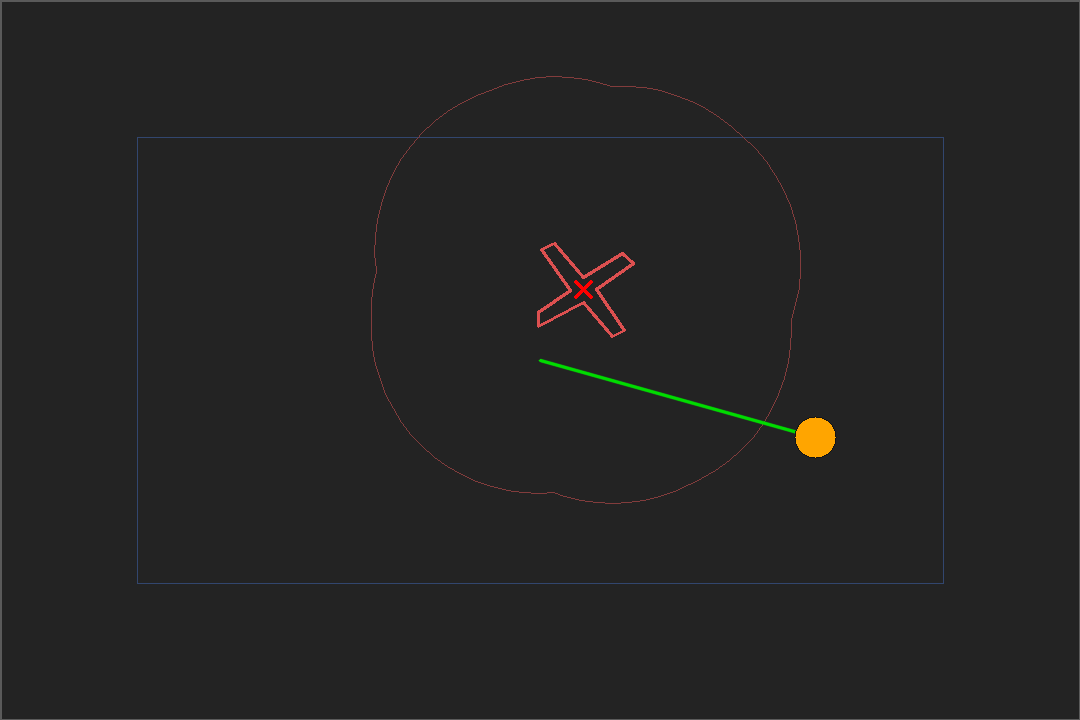
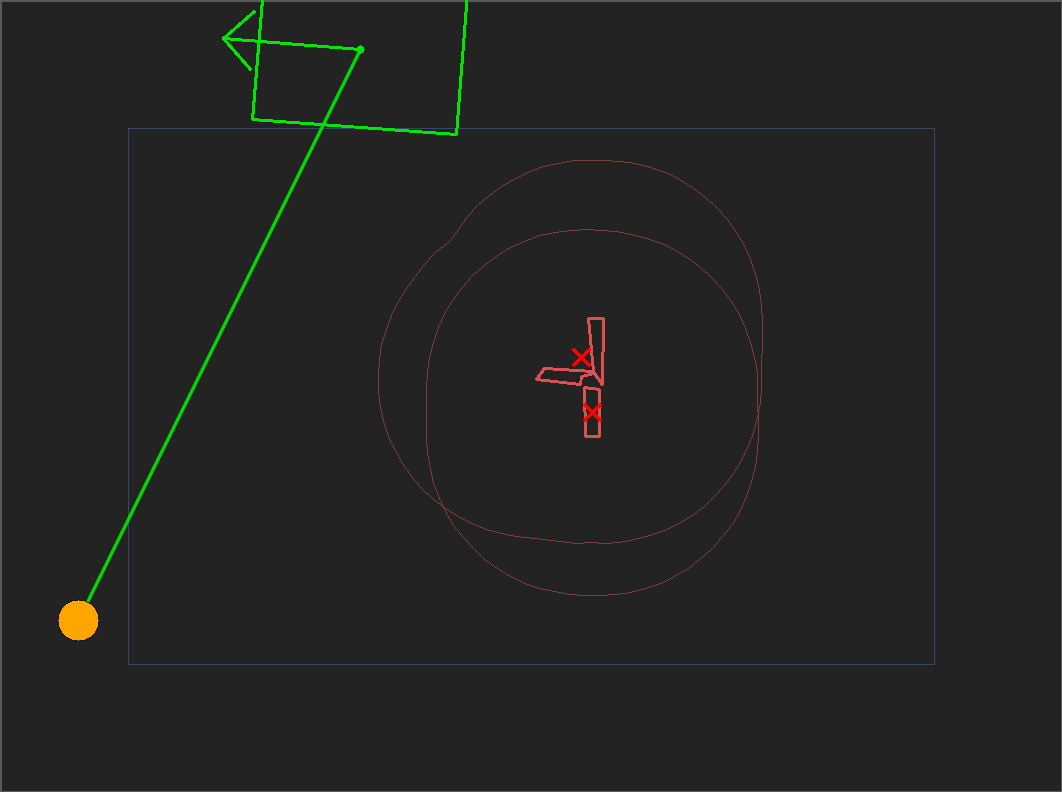
settings and changes from 22/06

diff --git a/src/server/phases/ball_collection.py b/src/server/phases/ball_collection.py
@@ -52,12 +52,12 @@ def retreat_to_safe(ctx, obstacles):
     obstacle_points = _normalize_obstacles(obstacles)
 
     if is_position_safe((ctx.robot.x, ctx.robot.y),
-                        obstacle_points, field_w, field_h, ROBOT_RADIUS_CM):
+                        obstacle_points, field_w, field_h, ROBOT_RADIUS_CM + 10):
         print("[Retreat] Robotten staar allerede sikkert.")
         return
 
     safe = find_safe_point((ctx.robot.x, ctx.robot.y),
-                           obstacle_points, field_w, field_h, ROBOT_RADIUS_CM)
+                           obstacle_points, field_w, field_h, ROBOT_RADIUS_CM + 10)
     if safe is None:
         print("[Retreat] ADVARSEL: Intet sikkert punkt fundet -- bakker {:.0f} cm.".format(
             ROBOT_BACK_CM))
@@ -67,7 +67,7 @@ def retreat_to_safe(ctx, obstacles):
     path, _ = find_path_adaptive(
         (ctx.robot.x, ctx.robot.y), safe,
         obstacle_points, field_w, field_h,
-        safe_radius=OBSTACLE_SAFE_RADIUS_CM, robot_radius=ROBOT_RADIUS_CM)
+        safe_radius=OBSTACLE_SAFE_RADIUS_CM, robot_radius=ROBOT_RADIUS_CM + 10)
     if path is None:
         print("[Retreat] ADVARSEL: Ingen sti til sikkert punkt -- bakker {:.0f} cm.".format(
             ROBOT_BACK_CM))
@@ -143,7 +143,7 @@ def collect_ball(ctx, ball, obstacles=None):
     
     # I stedet for bare at vente 3 sekunder, poller vi for stall.
     print("[{}] [Opsamling] Venter og tjekker om motoren staller...".format(ctx.iteration))
-    timeout_time = time.time() + 3.0
+    timeout_time = time.time() + 5.0
     stall_start_time = None
     
     while time.time() < timeout_time:
@@ -153,17 +153,18 @@ def collect_ball(ctx, ball, obstacles=None):
                 stall_start_time = time.time()
                 print("[{}] [Opsamling] EV3 melder 'stalled'! Starter timer...".format(ctx.iteration))
             elif time.time() - stall_start_time >= 0.5: # Hvis stalled i 0.5 sekunder
-                print("[{}] [Opsamling] Bolden sidder fast! Kører yderligere 5 cm fremad...".format(ctx.iteration))
-                send_and_verify(ctx.client, "FORWARD", 15, 2.5)
+                print("[{}] [Opsamling] Bolden sidder fast! Kører yderligere 3 cm tilbage og så frem...".format(ctx.iteration))
+                send_and_verify(ctx.client, "FORWARD", 15, -3)
                 # Vent lidt ekstra efter vi er kørt frem, og stop så
-                time.sleep(.5)
-                send_and_verify(ctx.client, "FORWARD", 15, -2.5)
-                break
+                send_and_verify(ctx.client, "FORWARD", 15, 3)
+                continue
         else:
             stall_start_time = None
         time.sleep(0.1)
 
     send_and_verify(ctx.client, "COLLECT_STOP")
+
+    send_and_verify(ctx.client, "FORWARD", SPEED_UNDER_COLLECTION, -COLLECTOR_MOVEMENT_CM)
 
     print("[{}] [Opsamling] Bold opsamlet. Kører imod safe zone".format(ctx.iteration))
 

diff --git a/config.py b/config.py
@@ -23,7 +23,7 @@ Sektioner:
 
 # IP-adresse på EV3 robotten — SKAL opdateres til jeres netværk!
 # Find den ved at køre: ip addr   på EV3'en
-ROBOT_IP    = "172.20.10.12"
+ROBOT_IP    = "172.20.10.4"
 
 PORT        = 12345   # TCP-port EV3 lytter på
 BUFFER_SIZE = 1024    # Bytes der læses ad gangen fra socket
@@ -113,7 +113,7 @@ CAMERA_FRAME_HEIGHT = 1080   # Højde i pixels
 
 # Fysisk kamerahøjde over baneoverfladen i cm.
 # Brugt i: src/vision/field_map.py (correct_height_offset)
-CAMERA_HEIGHT_CM = 161.0
+CAMERA_HEIGHT_CM = 155.0
 
 # Højde af ArUco-markørens centrum over baneoverfladen i cm.
 # Brugt i: src/vision/field_map.py (correct_height_offset)
@@ -181,7 +181,7 @@ MIN_TURN_DEGREES = 10.0
 # Ekstra cm robotten kører FORBI boldens position.
 # Kompenserer for afstand fra markør til opsamler-åbning.
 # Mål afstanden fra den grønne markør til opsamlerens indgang.
-COLLECTOR_MOVEMENT_CM = 15
+COLLECTOR_MOVEMENT_CM = 18
 
 # Max afstand robotten må køre fremad pr. iteration (cm).
 # Forhindrer overshoots og sikrer re-evaluering af retning undervejs.
@@ -195,7 +195,7 @@ STOP_DISTANCE_CM = 14.0
 
 # Mindste drejningsvinkel i præcisions-zone (tæt på bold).
 # Brugt i: src/server/phases/drive_to_ball.py
-PRECISION_MIN_TURN_DEGREES = 5
+PRECISION_MIN_TURN_DEGREES = 3
 PRECISION_TURN_SPEED = 20
 
 # ===========================================================================
@@ -249,7 +249,7 @@ OBSTACLE_SAFE_RADIUS_CM = 5
 WALL_SAFE_RADIUS_CM = 15.0
 # Margin (pixels) som ROI'en krympes indad fra Aruco-banehjørnerne — lille
 # sikkerhedsmargin der holder detektion klar af den røde bande.
-FIELD_BORDER_MARGIN_PX = 50
+FIELD_BORDER_MARGIN_PX = 0
 # Mindste areal (pixels) for at en rød klat anerkendes som det Røde Kryds
 OBSTACLE_MIN_AREA_PX = 150
 # Epsilon (cm) for kontur-forenkling via cv2.approxPolyDP.

diff --git a/src/server/phases/drive_to_ball.py b/src/server/phases/drive_to_ball.py
@@ -59,8 +59,7 @@ def drive_to_ball(ctx, ball, obstacles=None):
 
     # Normaliser forhindringer til Obstacle-objekter -- bruges baade til
     # approach-punkt-beregningen og til A*-pathfinding under koerslen.
-    
-    #TODO Kig på om vi får de rigtig field variabler
+
     obstacle_points = _normalize_obstacles(obstacles)
     field_w, field_h = getattr(ctx.field_map, "field_size_cm", (180, 120)) #
 
@@ -89,7 +88,7 @@ def drive_to_ball(ctx, ball, obstacles=None):
         wall_app = calculate_wall_approach_point(
             ball.x, ball.y, field_w, field_h,
             wall_safe_dist_cm=WALL_SAFE_RADIUS_CM,
-            approach_dist_cm=WALL_SAFE_RADIUS_CM)
+            approach_dist_cm=WALL_SAFE_RADIUS_CM + 10)
         if wall_app is not None:
             target_x, target_y = wall_app
             approaching = True
@@ -97,7 +96,7 @@ def drive_to_ball(ctx, ball, obstacles=None):
 
     print("\n" + "=" * 60)
     print("[KoerTilBold] Navigation mod {} bold paa ({:.1f}, {:.1f})".format(
-        ball.color, target_x, target_y))
+        ball.color, ball.x, ball.y))
 
     # Committed rute: den praecise A*-sti til maalet planlaegges EN gang og
     # foelges waypoint for waypoint. None = endnu ikke planlagt (eller maal

diff --git a/src/server/phases/delivery.py b/src/server/phases/delivery.py
@@ -45,11 +45,13 @@ def deliver_balls(ctx):
     # Rok robotten frem og tilbage mens transportbaandet stadig koerer i reverse
     print("[{}] [Aflevering] Koerer 6 cm frem mens transportbaandet koerer reverse...".format(
         ctx.iteration))
-    send_and_verify(ctx.client, "FORWARD",30, 6.0)
+    send_and_verify(ctx.client, "FORWARD",20, 4.0)
+
+    time.sleep(1.0)
 
     print("[{}] [Aflevering] Koerer 6 cm tilbage mens transportbaandet koerer reverse...".format(
         ctx.iteration))
-    send_and_verify(ctx.client, "FORWARD",30 , -6.0)
+    send_and_verify(ctx.client, "FORWARD",30 , -4.0)
 
     # Bak vaek fra maalet
     print("[{}] [Aflevering] Bakker 10 cm vaek fra maalet...".format(ctx.iteration))

diff --git a/src/planning/command_generator.py b/src/planning/command_generator.py
@@ -43,7 +43,7 @@ def compute_angle_to_target(robot_x, robot_y, target_x, target_y):
     return math.degrees(math.atan2(dy, dx))
 
 
-def compute_distance(robot_x, robot_y, ball_x, ball_y, robot_heading, front_offset_cm):
+def compute_distance(robot_x, robot_y, ball_x, ball_y, robot_heading=0, front_offset_cm=0):
     """Beregn afstand fra robot til bold i cm."""
     front_x, front_y = _front_position(robot_x, robot_y, robot_heading, front_offset_cm)
     dx = ball_x - front_x
